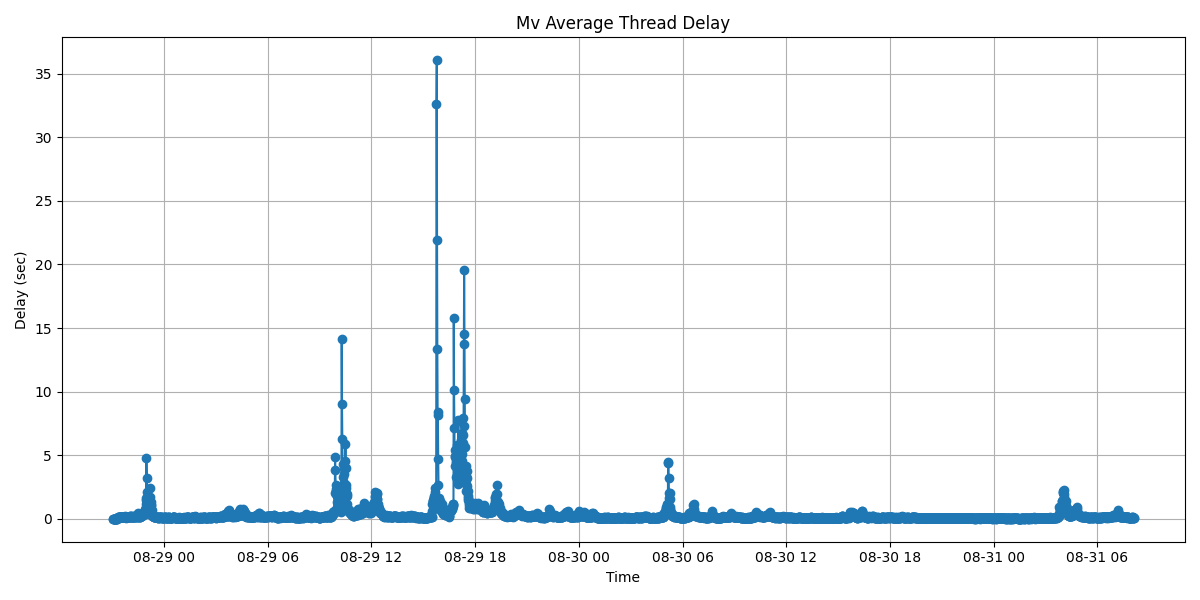
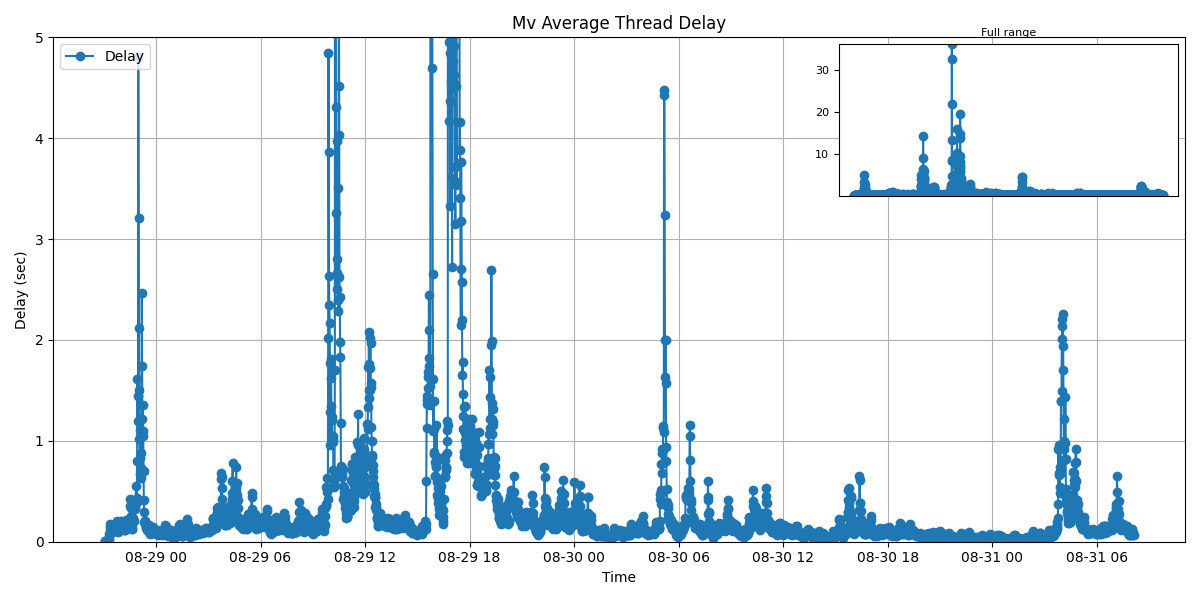
Legend with full range

diff --git a/plots/profile.py b/plots/profile.py
@@ -79,6 +79,44 @@ def plot_time_series(data_file, output_file, ylabel, scale=1):
     plt.savefig(output_file)
     plt.close()
 
+def plot_time_series_with_legend(data_file, output_file, ylabel, scale=1, zoom_ylim=(0, 5)):
+    from mpl_toolkits.axes_grid1.inset_locator import inset_axes
+    
+    timestamps, values = [], []
+    with open(data_file, "r") as f:
+        for line in f:
+            line = line.strip()
+            if not line:
+                continue
+            ts, val = line.split(",")
+            ts = datetime.fromtimestamp(int(ts)/1000)
+            val = float(val)/scale
+            timestamps.append(ts)
+            values.append(val)
+
+    fig, ax = plt.subplots(figsize=(12,6))
+    ax.plot(timestamps, values, marker="o", linestyle="-", label="Delay")
+    ax.set_title(output_file.split("/")[-1].replace("-", " ").replace(".png", "").title())
+    ax.set_xlabel("Time")
+    ax.set_ylabel(ylabel)
+    ax.grid(True)
+    ax.set_ylim(zoom_ylim)
+    
+    axins = inset_axes(ax, width="30%", height="30%", loc="upper right")
+    axins.plot(timestamps, values, marker="o", linestyle="-")
+    axins.set_ylim(min(values), max(values))
+    axins.set_title("Full range", fontsize=8)
+    axins.tick_params(labelsize=8)
+    axins.set_xticks([])
+    axins.set_xlabel("")
+
+    ax.legend(loc="upper left")
+
+    plt.tight_layout()
+    plt.savefig(output_file)
+    plt.close()
+
+
 # -------------------------
 # Main execution
 # -------------------------
@@ -99,16 +137,16 @@ for i, symbol in enumerate(symbols):
     plot_symbol_correlations(symbol, ts_day, corr_day, colors_day, occurrences[i], symbol_colors, cur_dir)
 
 # Plot average delay
-plot_time_series(os.path.join(cur_dir,"../logs/stats/avg-delay.csv"),
-                 os.path.join(cur_dir,"../assets/mv-average-thread-delay.png"),
-                 ylabel="Delay (sec)",
-                 scale=1000)
+plot_time_series_with_legend(os.path.join(cur_dir,"../logs/stats/avg-delay.csv"),
+                                os.path.join(cur_dir,"../assets/mv-average-thread-delay.png"),
+                                ylabel="Delay (sec)",
+                                scale=1000)
 
 # Plot CPU usage
-plot_time_series(os.path.join(cur_dir,"../logs/stats/cpu-usage.csv"),
-                 os.path.join(cur_dir,"../assets/CPU-usage.png"),
-                 ylabel="Usage (%)",
-                 scale=1)
+plot_time_series_with_legend(os.path.join(cur_dir,"../logs/stats/cpu-usage.csv"),
+                                os.path.join(cur_dir,"../assets/CPU-usage.png"),
+                                ylabel="Usage (%)",
+                                scale=1, zoom_ylim=(0, 10))
 
 # Plot Pearson delay
 plot_time_series(os.path.join(cur_dir,"../logs/stats/pearson-delay.csv"),
